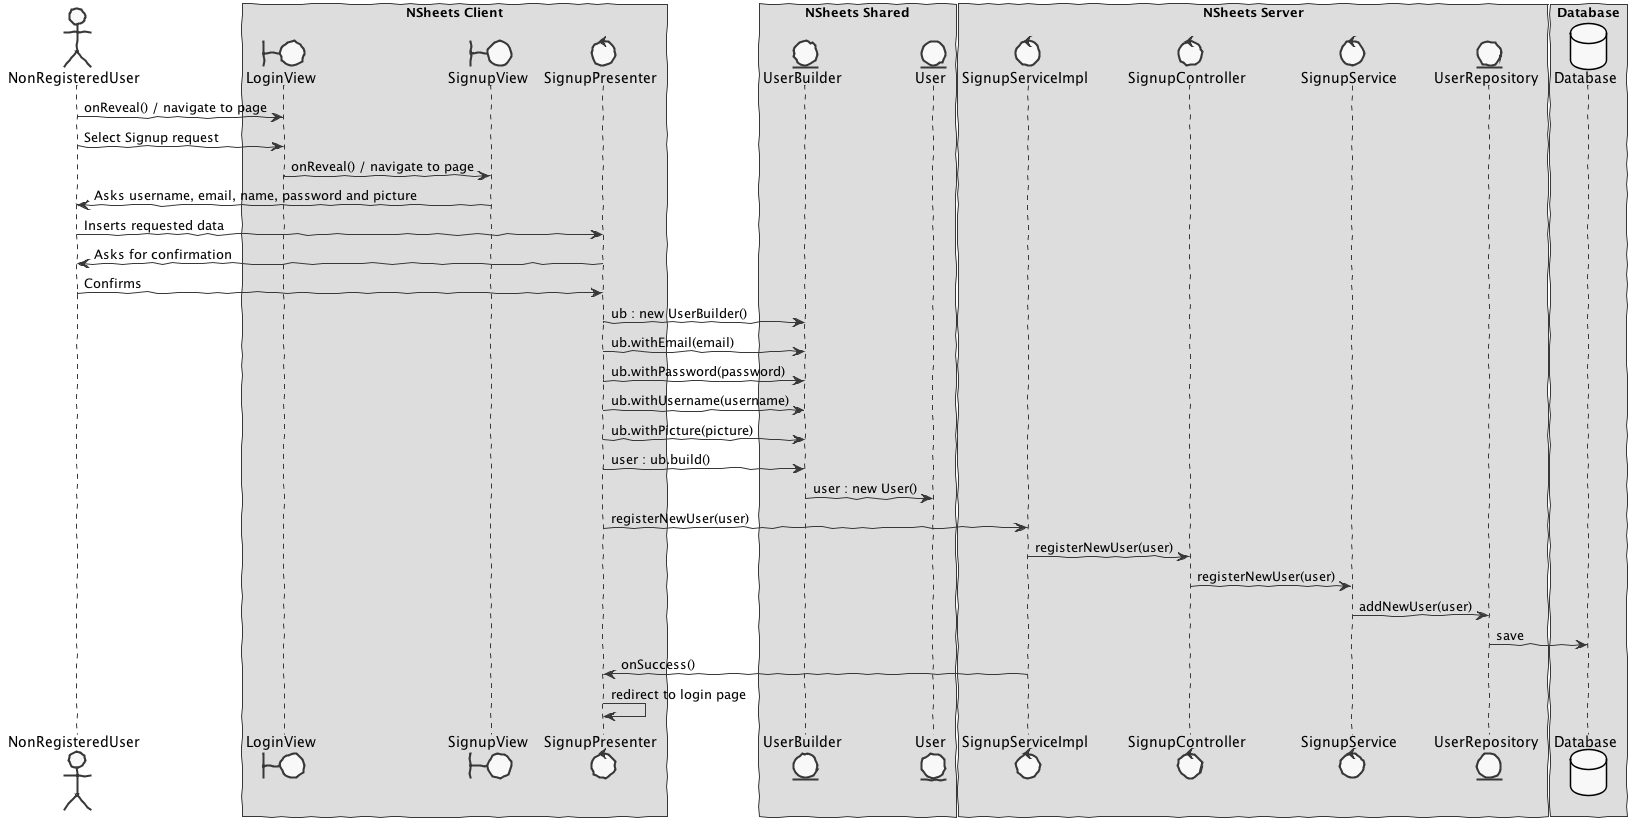
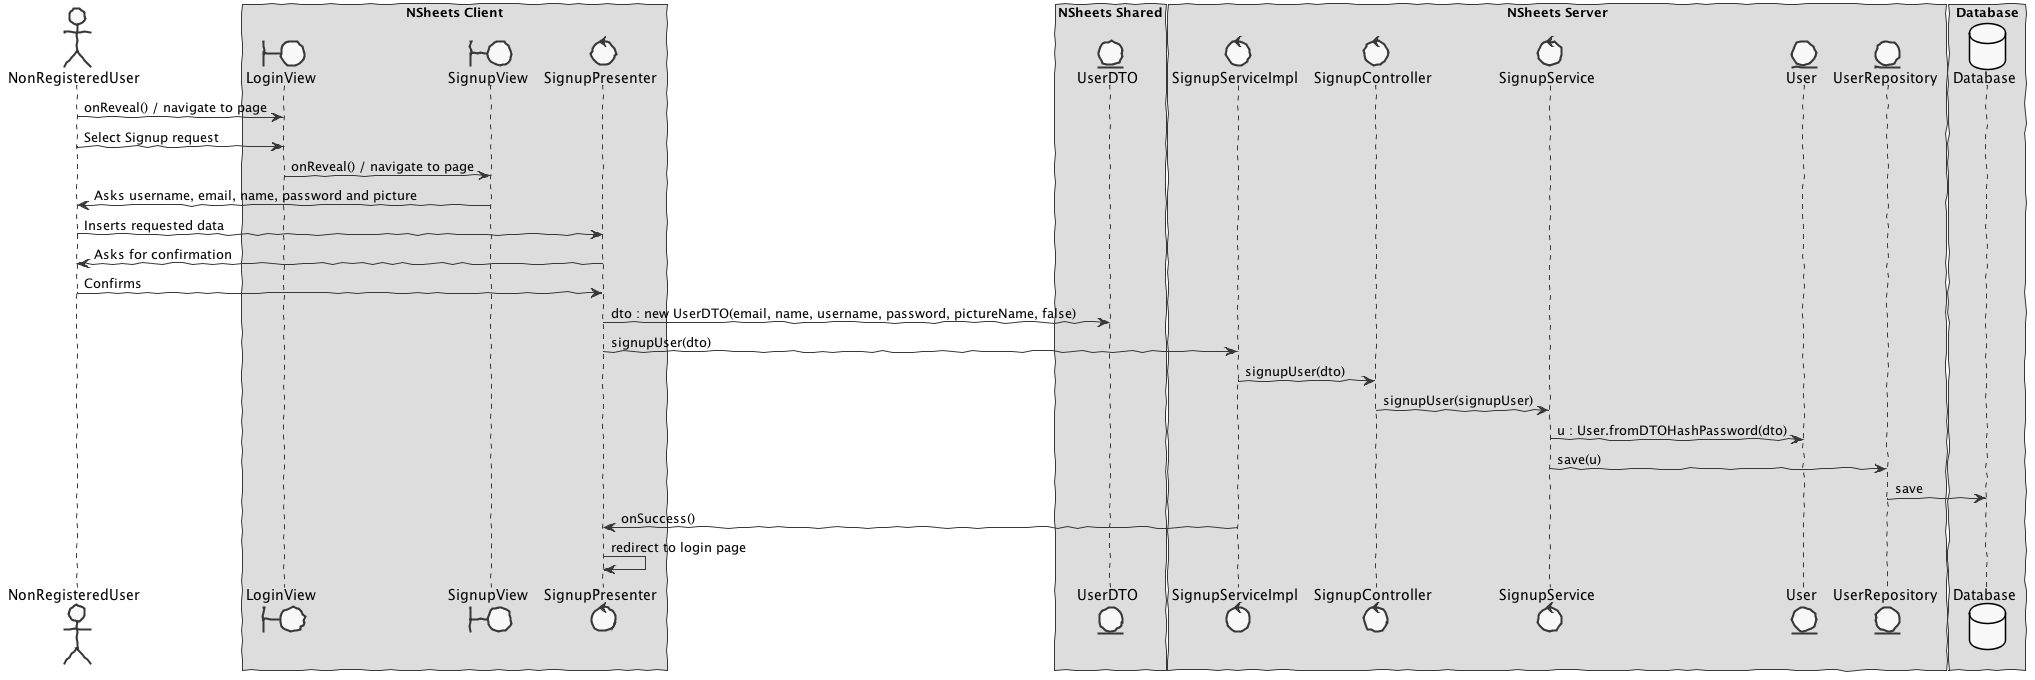
Updated and ended documentation

diff --git a/docs/red/1161292/sp2/README.md b/docs/red/1161292/sp2/README.md
@@ -3,7 +3,7 @@
 
 # 1. General Notes
 
-Questions made to Product Owner (LMN):
+Questions made to Product Owner (PRP):
 
 ```
 Q: Should I add security measures, for instance, password hash?
@@ -14,6 +14,8 @@ A: Yes.
 Q: Can I create business rules, like Password with minimum requirements?
 A: Yes.
 ```
+
+I also want to thanks my teammate [José Pedro Monteiro](https://bitbucket.org/lei-isep/lapr4-18-2db/src/master/docs/red/1160630/)for every help they gave me so I could finish this Use Case, even though it wasn't possible at all.
 
 # 2. Requirements
 
@@ -28,7 +30,7 @@ US01
 
 # 3. Analysis
 
-*In this section you should describe the study/analysis/research you developed in order to design a solution.*  
+##### *In this section you should describe the study/analysis/research you developed in order to design a solution.*  
 
 ## 3.1 Analysis Diagrams
 
@@ -50,94 +52,14 @@ The main idea for the "workflow" of this feature increment.
 
 # 4. Design
 
-*In this section you should present the design solution for the requirements of this sprint.*
+##### *In this section you should present the design solution for the requirements of this sprint.*
 
 
 ## 4.1. Tests
 
-*In this section you should describe the design of the tests that, as much as possibe, cover the requirements of the sprint.*
+##### *In this section you should describe the design of the tests that, as much as possibe, cover the requirements of the sprint.*
 
-Regarding tests we try to follow an approach inspired by test driven development. However it is not realistic to apply it for all the application (for instance for the UI part). Therefore we focus on the domain classes and also on the services provided by the server.
-
-**UserBuilder**: This class represents the Builder Pattern. It has the knowledge of how to build a User entity by knowing his attributes. We tested this class to make sure that after calling **build()** method, we have our entity represented with our information.
-
-```java
-@Test
-public void ensureUserBuilderIsWorking(){
-    System.out.println("ensureUserBuilderIsWorking");
-    final Boolean expected = true;
-    
-    final UserDTO expectedDTO = new UserDTO("1161292@isep.ipp.pt", "Tiago", "tiago", "Teste123", false);
-    final UserDTO resultDTO = new UserBuilder().withEmail("1161292@isep.ipp.pt").withName("Tiago").withNickname("tiago").withPassword("Teste123").withSuperUser(false).build();
-    
-    assertEquals(expected, resultDTO.equals(expectedDTO));
-}
-```
-
-```java
-@Test
-public void ensureUserBuilderIsNotWorkingBecauseEmail(){
-    System.out.println("ensureUserBuilderIsNotWorkingBecauseEmail");
-    final Boolean expected = false;
-    
-    final UserDTO expectedDTO = new UserDTO("1161292@isep.ipp.pt", "Tiago", "tiago", "Teste123", false);
-    final UserDTO resultDTO = new UserBuilder().withEmail("1161291@isep.ipp.pt").withName("Tiago").withNickname("tiago").withPassword("Teste123").withSuperUser(false).build();
-    
-    assertEquals(expected, resultDTO.equals(expectedDTO));
-}
-```
-
-```java
-@Test
-public void ensureUserBuilderIsNotWorkingBecauseName(){
-    System.out.println("ensureUserBuilderIsNotWorkingBecauseName");
-    final Boolean expected = false;
-    
-    final UserDTO expectedDTO = new UserDTO("1161292@isep.ipp.pt", "Tiago", "tiago", "Teste123", false);
-    final UserDTO resultDTO = new UserBuilder().withEmail("1161292@isep.ipp.pt").withName("João").withNickname("tiago").withPassword("Teste123").withSuperUser(false).build();
-    
-    assertEquals(expected, resultDTO.equals(expectedDTO));
-}
-```
-
-```java
-@Test
-public void ensureUserBuilderIsNotWorkingBecauseNickname(){
-    System.out.println("ensureUserBuilderIsNotWorkingBecauseNickname");
-    final Boolean expected = false;
-    
-    final UserDTO expectedDTO = new UserDTO("1161292@isep.ipp.pt", "Tiago", "tiago", "Teste123", false);
-    final UserDTO resultDTO = new UserBuilder().withEmail("1161292@isep.ipp.pt").withName("Tiago").withNickname("joão").withPassword("Teste123").withSuperUser(false).build();
-    
-    assertEquals(expected, resultDTO.equals(expectedDTO));
-}
-```  
-
-```java
-@Test
-public void ensureUserBuilderIsNotWorkingBecausePassword(){
-    System.out.println("ensureUserBuilderIsNotWorkingBecausePassword");
-    final Boolean expected = false;
-    
-    final UserDTO expectedDTO = new UserDTO("1161292@isep.ipp.pt", "Tiago", "tiago", "Teste123", false);
-    final UserDTO resultDTO = new UserBuilder().withEmail("1161292@isep.ipp.pt").withName("Tiago").withNickname("tiago").withPassword("Teste1234").withSuperUser(false).build();
-    
-    assertEquals(expected, resultDTO.equals(expectedDTO));
-}
-```
-
-```java
-@Test
-public void ensureUserBuilderIsNotWorkingBecauseSuperUser(){
-    System.out.println("ensureUserBuilderIsNotWorkingBecauseSuperUser");
-    final Boolean expected = false;
-    
-    final UserDTO expectedDTO = new UserDTO("1161292@isep.ipp.pt", "Tiago", "tiago", "Teste123", false);
-    final UserDTO resultDTO = new UserBuilder().withEmail("1161292@isep.ipp.pt").withName("Tiago").withNickname("tiago").withPassword("Teste123").withSuperUser(true).build();
-    
-    assertEquals(expected, resultDTO.equals(expectedDTO));
-}
-```
+##### Regarding tests we try to follow an approach inspired by test driven development. However it is not realistic to apply it for all the application (for instance for the UI part). Therefore we focus on the domain classes and also on the services provided by the server.
 
 **SignupController**: This class is responsible for the communication between UI and Domain. In this case, it is where the signup begins in the server, so it can persist a new User in the database.
 
@@ -199,21 +121,42 @@ public void testIfUserWasAdded() throws Exception {
 *Present and explain how you applied design patterns and best practices.*
 
 - Repository
-- Builder
 - MVP
+- DTO
 
 # 5. Integration/Demonstration
 
-*In this section document your contribution and efforts to the integration of your work with the work of the other elements of the team and also your work regarding the demonstration (i.e., tests, updating of scripts, etc.)*
+##### *In this section document your contribution and efforts to the integration of your work with the work of the other elements of the team and also your work regarding the demonstration (i.e., tests, updating of scripts, etc.)*
 
 # 6. Final Remarks 
 
-*In this section present your views regarding alternatives, extra work and future work on the issue.*
+##### *In this section present your views regarding alternatives, extra work and future work on the issue.*
 
 Some Questions/Issues identified during the work in this feature increment:
 
+- My main concern during this sprint was implementing OOP Patterns, like Value Object and Builder.
+    - Even though, Value Object could easily be implemented, GWT provides tools for input validation with Regular Expressions, so I decided to used them.
+    - About Builder Pattern, I didn't find a good solution for it, since I could not initialize an UserBuilder instance in UI. 
+
 # 7. Work Log
 
+* []()
+* [Login and Users work with hashed password](https://bitbucket.org/lei-isep/lapr4-18-2db/commits/fb9dad00860ec69a27847b83ffd3b767a83cae49)
+* [Changed method implementation and regex](https://bitbucket.org/lei-isep/lapr4-18-2db/commits/1d130cb11ff2c8b8a573467ebbe208929559a3a5)
+* [Removed default login information](https://bitbucket.org/lei-isep/lapr4-18-2db/commits/13eeab886008d73649cb23b0d187fed377628c22)
+* [Removed image preview](https://bitbucket.org/lei-isep/lapr4-18-2db/commits/04d20b97bc808249441d5ecc5892d18c66bbccac)
+* [Changed icon colors and implemented type on password textbox](https://bitbucket.org/lei-isep/lapr4-18-2db/commits/981f9c676d9908c03eea3e68371249b771ec3b32)
+* [Email attribute is now unique](https://bitbucket.org/lei-isep/lapr4-18-2db/commits/440faeb89b60efe99281d2063a5614c2c81b2f2f)
+* [Added empty file](https://bitbucket.org/lei-isep/lapr4-18-2db/commits/64d3c258accbf8d7308127969b741608036389f6)
+* [Fixed tests classes because Picture field on user](https://bitbucket.org/lei-isep/lapr4-18-2db/commits/c8ec0a4ec81553fcefafbcbaaa4439f91fad32d5)
+* [Fixed Domain classes](https://bitbucket.org/lei-isep/lapr4-18-2db/commits/b997d81c4a02bcc272a4fff70491b6d30100a903)
+* [Application goes to DB to search for registered users](https://bitbucket.org/lei-isep/lapr4-18-2db/commits/42da2e170dac93642c12ea7da5a412ff23d226cd)
+* [Fixed where files are saved in the server](https://bitbucket.org/lei-isep/lapr4-18-2db/commits/ecc14fd968d496c3e63a4eba4c4677e77a79347e)
+* [Card shows image preview after uploading](https://bitbucket.org/lei-isep/lapr4-18-2db/commits/b053986bfa30a1c9576f742562e2195524cd4271)
+* [Added picture to NavBar when logged in](https://bitbucket.org/lei-isep/lapr4-18-2db/commits/4188985c299418b34d0d8786f91179cf743c3aa8)
+* [Updated documentation](https://bitbucket.org/lei-isep/lapr4-18-2db/commits/cfb83227236c5ed8b4a65ce1b4fe0de2ab1cb284)
+* [Added IPC01.2 tests for Controller and Builder](https://bitbucket.org/lei-isep/lapr4-18-2db/commits/e5678e861e0c82d64cdc0bdd62f81041d0fbb634)
+* [Fixed UserBuilder implementation](https://bitbucket.org/lei-isep/lapr4-18-2db/commits/e702cb059606ccaeee3a3aa5538a3be897205139)
 * [Removed Password Value Object. GWT UI is working with Regex](https://bitbucket.org/lei-isep/lapr4-18-2db/commits/3a21401073446b8c76c029d28717e3374fef6911)
 * [Fixed logged in user UI bugs](https://bitbucket.org/lei-isep/lapr4-18-2db/commits/d9ff5af8bd1064ee3ac792e766ed73d22ffc9592)
 * [Application now shows who is logged in](https://bitbucket.org/lei-isep/lapr4-18-2db/commits/ac8f96bccaf2d7cb71f974a5adc611efbfabb447)
